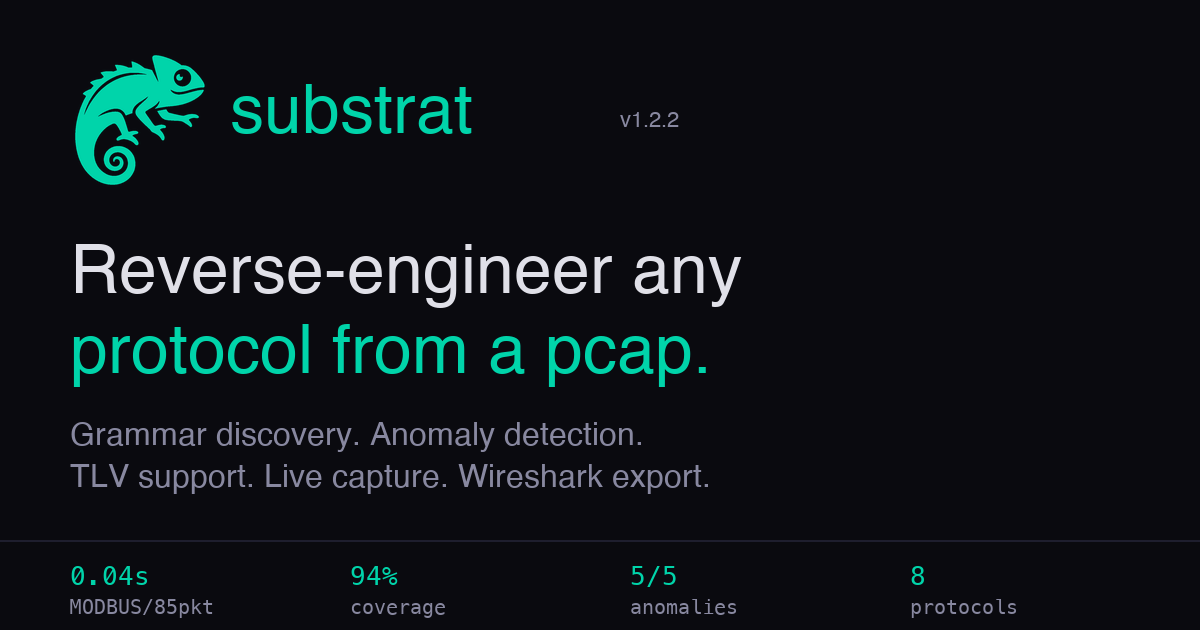
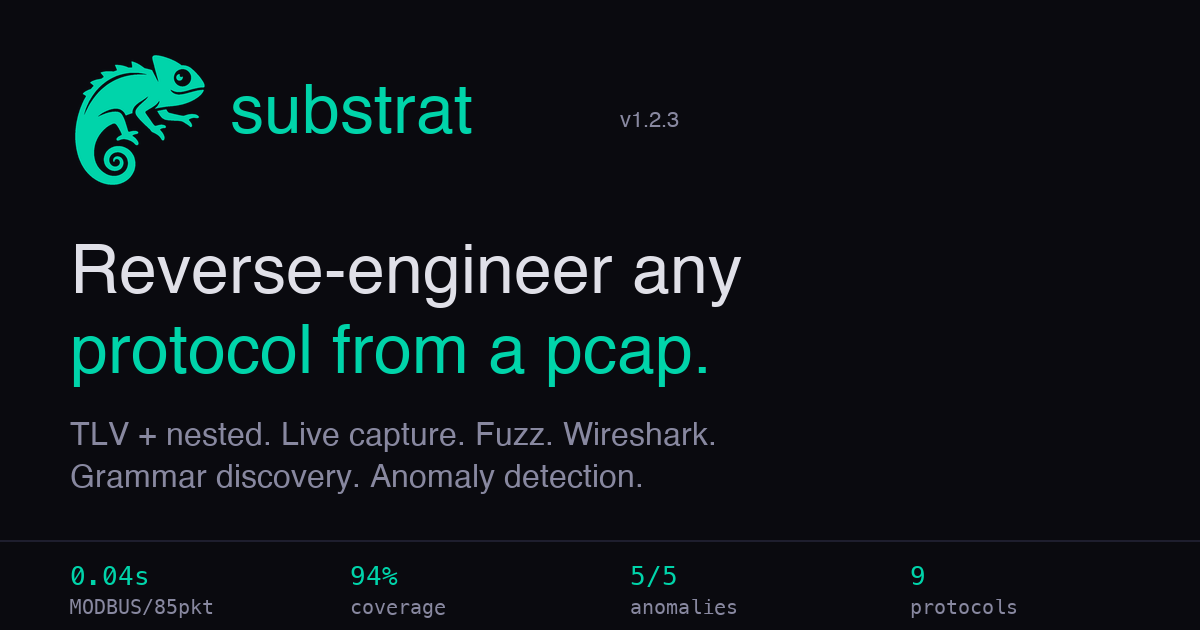
release v1.2.3: nested TLV + TLV fuzz + TLV Wireshark
Ships the three v1.2.x "MVP limits" flagged in the v1.2.2 release
notes as "defer to v1.3+". All closed in a single session:

- Nested TLV: the engine now recurses into "constructed" records
  whose Value is itself a TLV chain. Detection is automatic; the
  result dict exposes `tlv_format.nested_types`, the BNF grammar
  output expands the sub-chain structure, and anomaly paths carry
  context (e.g. `TYPE=0x10→unknown TYPE 0xff`).
- TLV fuzz corpus: dedicated generator with 7 mutation strategies
  (type_flip, length_mutation, value_bitflip, drop, duplicate,
  insert_junk, truncate + prefix_corrupt when applicable). Wires into
  `substrat re --fuzz DIR` just like the positional path.
- TLV Wireshark .lua: loop-based dissector that walks the chain at
  runtime, emits typed Expert Info warnings (bad_prefix, bad_type,
  bad_length, overrun), and auto-registers on the target port.

Landing updates:
- Hero version bump to v1.2.3.
- Benchmarks page summary table gains `nested_tlv_synth.pcap` (95
  packets, 5/5 anomalies, 2 of which are flagged via inner recursion).
- New benchmarks section "3. Nested TLV — constructed records" with
  a full JSON example, the recursive grammar, and two anomaly paths
  including one inner-recursive.
- Renumbered subsequent sections (DNS 3→4, Telnet 4→5, HTTP/FTP/TFTP
  5→6, Live capture 6→7).
- Release-notes callout updated: v1.2.3 = nested + fuzz + wireshark
  for TLV; v1.2.2 features listed below as already-shipped.
[…]

Changed region(s): [[0.0617, 0.6635, 0.5858, 0.7841], [0.74, 0.9048, 0.7708, 0.9349], [0.555, 0.181, 0.5858, 0.2111]]

diff --git a/benchmarks.html b/benchmarks.html
@@ -79,7 +79,8 @@
     </thead>
     <tbody>
       <tr><td><a href="pcaps/modbus_synth.pcap">modbus_synth.pcap</a></td><td>7.0 KB</td><td>85</td><td>binary (positional)</td><td>94%</td><td>5/5 injected</td><td>0.034s</td></tr>
-      <tr><td><a href="pcaps/tlv_synth.pcap">tlv_synth.pcap</a> <em>(new, v1.2.2)</em></td><td>5.9 KB</td><td>100</td><td><strong>binary TLV</strong></td><td>99%</td><td>5/5 injected</td><td>0.04s</td></tr>
+      <tr><td><a href="pcaps/tlv_synth.pcap">tlv_synth.pcap</a> <em>(v1.2.2)</em></td><td>5.9 KB</td><td>100</td><td><strong>binary TLV</strong></td><td>99%</td><td>5/5 injected</td><td>0.04s</td></tr>
+      <tr><td><a href="pcaps/nested_tlv_synth.pcap">nested_tlv_synth.pcap</a> <em>(new, v1.2.3)</em></td><td>6.0 KB</td><td>95</td><td><strong>binary TLV nested</strong></td><td>100%</td><td>5/5 (incl. 2 inner-recursive)</td><td>0.04s</td></tr>
       <tr><td><a href="pcaps/dns.pcap">dns.pcap</a></td><td>4.3 KB</td><td>38 (3 flows)</td><td>binary</td><td>94–100%</td><td>7 structural</td><td>0.017s</td></tr>
       <tr><td><a href="pcaps/http_synth.pcap">http_synth.pcap</a></td><td>8.8 KB</td><td>60 (2 flows)</td><td>text</td><td>template</td><td>—</td><td>0.18s</td></tr>
       <tr><td><a href="pcaps/telnet.pcap">telnet.pcap</a></td><td>24.3 KB</td><td>117</td><td>text</td><td>template</td><td>—</td><td>0.30s</td></tr>
@@ -89,7 +90,8 @@
   <p>All binary-mode analyses complete in well under a second on a 2024 MacBook Pro. <code>tlv_synth.pcap</code> exercises the <strong>new TLV engine</strong> (v1.2.2) that handles chained Type-Length-Value protocols such as IEC 60870-5-104, DNP3, BACnet, and DHCP options — protocols the positional-only engine couldn't model.</p>
 
   <div class="note">
-    <p><strong>New in v1.2.2:</strong> TCP reassembly on by default (joins multi-segment app messages for HTTP/FTP/SSH), non-Ethernet pcap support (Linux SLL, raw IP, loopback), TLV-aware binary mode (IEC 104, DNP3, BACnet), live interface capture (<code>substrat sniff</code>), JSON output on all analysis commands.</p>
+    <p><strong>New in v1.2.3:</strong> nested TLV detection (constructed Types whose Value is itself a TLV chain, like BACnet APDU or OPC-UA partials), TLV-aware fuzz corpus generator, TLV-aware Wireshark <code>.lua</code> dissector (loop-based, with Expert Info for prefix / type / length / overrun violations). TLV mode is now feature-equivalent to positional mode.</p>
+    <p><strong>Still in v1.2.2:</strong> TCP reassembly on by default (multi-segment HTTP/FTP/SSH), non-Ethernet pcap support (Linux SLL, raw IP, loopback), live capture (<code>substrat sniff</code>), JSON output on all analysis commands.</p>
   </div>
 
   <h2>1. MODBUS/TCP — 5/5 injected anomalies detected</h2>
@@ -151,7 +153,39 @@ Total CPU: <span class="o">0.034s</span></pre>
 
 Total CPU: <span class="o">0.04s</span></pre>
 
-  <h2>3. DNS — real capture, 3 flows auto-separated</h2>
+  <h2>3. Nested TLV — constructed records <em>(new in v1.2.3)</em></h2>
+  <p>Some real protocols carry records whose Value is itself a TLV chain: BACnet APDU, OPC-UA partial encodings, ASN.1 short-form. Substrat's nested detector runs after the flat template is built, probes every observed Type, and recursively discovers a sub-template when a Type's Value parses cleanly as a chain in the same (T, L, endian) format.</p>
+  <p>The synthetic pcap has an outer prefix <code>0x53</code>, a sensor_id field (type 0x01), and a constructed type 0x10 whose Value chains three inner readings — temperature (0x20), humidity (0x22), pressure (0x24). Five anomalies are injected: three at the outer level (unknown type 0xcc), two at the inner level (unknown inner type 0xff but keeping the outer length intact).</p>
+  <p><a class="dl" href="pcaps/nested_tlv_synth.pcap" download>Download nested_tlv_synth.pcap (6.0 KB)</a></p>
+  <pre><span class="c">$ ./substrat re nested_tlv_synth.pcap --json | jq '.flows[0]'</span>
+
+{
+  "mode": <span class="o">"binary_tlv"</span>,
+  "packets": 95,
+  "coverage": <span class="o">1.0</span>,
+  "tlv_format": {
+    "prefix": <span class="v">"53"</span>, "t_size": 1, "l_size": 1, "l_endian": "big",
+    "types": [<span class="v">1, 16</span>],
+    "nested_types": [<span class="v">16</span>]
+  },
+  "grammar": [
+    "MSG -> PREFIX TLV_CHAIN",    "PREFIX -> 0x53",
+    "TYPE -> 0x01 | 0x10",
+    "VALUE -> &lt;bytes[LENGTH]&gt;   # primitive types",
+    "VALUE (when TYPE=0x10) -> T10_MSG   # nested TLV",
+    "# nested grammar for TYPE=0x10",
+    "T10_TYPE -> 0x20 | 0x22 | 0x24"
+  ],
+  "anomalies": [
+    { "index": 90, "issues": [<span class="w">"unknown TYPE 0xcc"</span>] },
+    { "index": 93, "issues": [<span class="w">"TYPE=0x10→unknown TYPE 0xff"</span>] }
+  ]
+}
+
+Total CPU: <span class="o">0.04s</span></pre>
+  <p>Notice the recursive anomaly path <code>TYPE=0x10→unknown TYPE 0xff</code> — the operator sees exactly which nested record violated the template. The fuzz corpus and Wireshark <code>.lua</code> dissector are now also generated for TLV flows (<code>--fuzz</code> / <code>--wireshark</code> flags), with a loop-based dissector that walks the chain at runtime and emits Expert Info warnings for prefix mismatch, unknown types, out-of-range lengths, and packet overruns.</p>
+
+  <h2>4. DNS — real capture, 3 flows auto-separated</h2>
   <p>Real DNS traffic. Substrat identifies three distinct flows (queries to different resolvers) and discovers a grammar per flow. Transaction ID, Flags, Questions count, Authority are recovered as separate fields.</p>
   <p><a class="dl" href="pcaps/dns.pcap" download>Download dns.pcap (4 KB)</a></p>
   <pre><span class="c">$ ./substrat re dns.pcap</span>
@@ -172,7 +206,7 @@ Anomalies found: 4/10 packets
 
 Total CPU: <span class="o">0.017s</span></pre>
 
-  <h2>4. Telnet — auto-split binary commands from text data</h2>
+  <h2>5. Telnet — auto-split binary commands from text data</h2>
   <p>Real Telnet session. Substrat detects the IAC escape prefix <code>0xff</code> and splits binary command packets from text data packets in the same TCP flow, then builds a grammar for each.</p>
   <p><a class="dl" href="pcaps/telnet.pcap" download>Download telnet.pcap (24 KB)</a></p>
   <pre><span class="c">$ ./substrat re telnet.pcap</span>
@@ -187,7 +221,7 @@ Parse failures: 0/39
 
 Total CPU: <span class="o">0.30s</span></pre>
 
-  <h2>5. HTTP / FTP / TFTP — text-mode tokenization</h2>
+  <h2>6. HTTP / FTP / TFTP — text-mode tokenization</h2>
   <p>For text protocols, Substrat discovers delimiter tokens (CRLF, status codes, keywords) and builds a slot-based grammar separating requests from responses.</p>
   <p>
     <a class="dl" href="pcaps/http_synth.pcap" download>http_synth.pcap</a>
@@ -204,7 +238,7 @@ bpc: 1.4113
 
 Total CPU: <span class="o">0.18s</span></pre>
 
-  <h2>6. Live capture throughput <em>(new in v1.2.2)</em></h2>
+  <h2>7. Live capture throughput <em>(v1.2.2+)</em></h2>
   <p>Measured with the <code>docker/stress</code> harness bundled in the Substrat source tree: one MQTT broker, 10 synthetic sensors pushing 50 messages per second each (5% injected anomaly rate), and one sniffer running <code>substrat sniff</code>'s underlying pipeline. All in containers on a 2024 MacBook Pro.</p>
   <pre><span class="c">$ cd docker/stress && docker compose up -d</span>
 <span class="c">$ docker logs -f stress-sniffer-1</span>

diff --git a/index.html b/index.html
@@ -149,7 +149,7 @@
       <img src="images/substrat-logo.png" alt="Substrat logo" class="brand-mark">
       <div class="brand-row">
         <span class="brand-name">substrat</span>
-        <span class="brand-version">v1.2.2</span>
+        <span class="brand-version">v1.2.3</span>
       </div>
     </div>
     <h1 class="text-5xl max-[640px]:text-[2.2rem] font-bold tracking-[-.02em] mb-3" data-lang="en" data-mode="tech">Your traffic has a grammar.<br><em>Substrat finds it.</em></h1>
